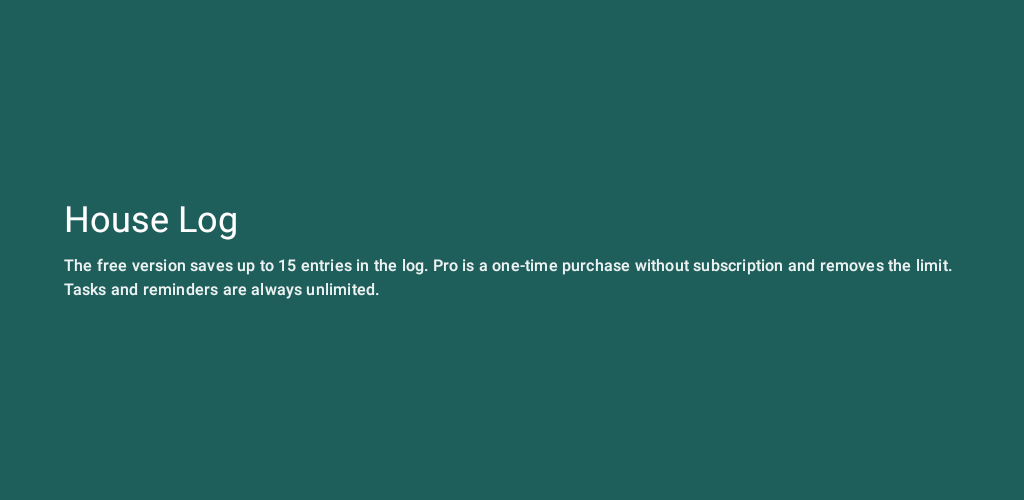
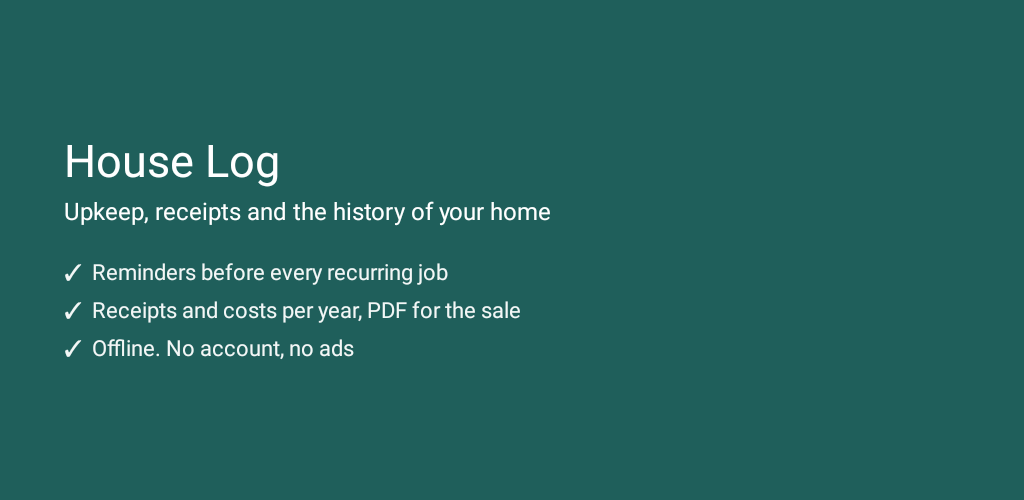
Husloggen: fyra knappar i navigeringsfältet (#442)
* Husloggen: navigeringsfältet har fyra knappar (Att göra, Logg, Översikt, Mer)

Sex knappar bröt etiketterna på två rader på en 360 dp-skärm och två flikar
delade ikon. Planerade kostnader, mätare och dokument nås via Mer; bakåt
från dem går till Mer.

Claude-Session: https://claude.ai/code/session_01CF85d1bdEzex3APXLfSv3H

* Husloggen: funktionsgrafik med rubrik och tre punkter; engelsk butikstitel följer appnamnet House Log

Claude-Session: https://claude.ai/code/session_01CF85d1bdEzex3APXLfSv3H

* Omgenererade butiksskärmbilder för husloggen (workflow Skärmbilder)

* Husloggen: "Varje år" och "Varje månad" i stället för "Var 1:e år"

Claude-Session: https://claude.ai/code/session_01CF85d1bdEzex3APXLfSv3H

---------

Changed region(s): [[0.0625, 0.51, 0.9375, 0.72], [0.0625, 0.27, 0.5312, 0.48]]

diff --git a/husloggen/src/main/kotlin/se/tmconnect/husloggen/ui/HusSkarmar.kt b/husloggen/src/main/kotlin/se/tmconnect/husloggen/ui/HusSkarmar.kt
@@ -1,5 +1,6 @@
 package se.tmconnect.husloggen.ui
 
+import androidx.activity.compose.BackHandler
 import androidx.compose.foundation.clickable
 import androidx.compose.foundation.layout.Arrangement
 import androidx.compose.foundation.selection.selectableGroup
@@ -15,12 +16,7 @@ import androidx.compose.foundation.lazy.LazyColumn
 import androidx.compose.foundation.lazy.items
 import androidx.compose.material.icons.Icons
 import androidx.compose.material.icons.filled.Add
-import androidx.compose.material.icons.filled.DateRange
 import androidx.compose.material.icons.filled.ArrowBack
-import androidx.compose.material.icons.filled.Edit
-import androidx.compose.material.icons.filled.CheckCircle
-import androidx.compose.material.icons.filled.Home
-import androidx.compose.material.icons.filled.Menu
 import androidx.compose.material.icons.filled.Settings
 import androidx.compose.material3.Button
 import androidx.compose.material3.RadioButton
@@ -29,8 +25,6 @@ import androidx.compose.material3.ExtendedFloatingActionButton
 import androidx.compose.material3.Icon
 import androidx.compose.material3.IconButton
 import androidx.compose.material3.MaterialTheme
-import androidx.compose.material3.NavigationBar
-import androidx.compose.material3.NavigationBarItem
 import androidx.compose.material3.Scaffold
 import androidx.compose.material3.Switch
 import androidx.compose.material3.Text
@@ -66,7 +60,7 @@ import se.tmconnect.husloggen.regler.grupperaPerAr
 import se.tmconnect.karna.format.formateraPrisKr
 import se.tmconnect.karna.tema.TemaLage
 
-enum class HusFlik { ATT_GORA, LOGG, PLAN, MATARE, DOKUMENT, SAMMANSTALLNING }
+enum class HusFlik { ATT_GORA, LOGG, PLAN, MATARE, DOKUMENT, SAMMANSTALLNING, MER }
 
 @OptIn(ExperimentalMaterial3Api::class)
 @Composable
@@ -111,6 +105,9 @@ fun HusStartSkarm(
             valdFlik = HusFlik.ATT_GORA.ordinal
         }
     }
+    BackHandler(enabled = HusFlik.entries[valdFlik] in MER_FLIKAR) {
+        valdFlik = HusFlik.MER.ordinal
+    }
     val locale = LocalConfiguration.current.locales[0]
     val visaSkatteInfo = locale.country.equals("SE", ignoreCase = true)
 
@@ -139,59 +136,10 @@ fun HusStartSkarm(
             )
         },
         bottomBar = {
-            NavigationBar {
-                NavigationBarItem(
-                    selected = valdFlik == HusFlik.ATT_GORA.ordinal,
-                    onClick = { valdFlik = HusFlik.ATT_GORA.ordinal },
-                    icon = { Icon(Icons.Filled.Home, contentDescription = null) },
-                    label = { Text(text = stringResource(R.string.flik_att_gora)) },
-                )
-                NavigationBarItem(
-                    selected = valdFlik == HusFlik.LOGG.ordinal,
-                    onClick = { valdFlik = HusFlik.LOGG.ordinal },
-                    icon = { Icon(Icons.Filled.Edit, contentDescription = null) },
-                    label = { Text(text = stringResource(R.string.flik_logg)) },
-                )
-                NavigationBarItem(
-                    selected = valdFlik == HusFlik.PLAN.ordinal,
-                    onClick = { valdFlik = HusFlik.PLAN.ordinal },
-                    icon = {
-                        Icon(
-                            Icons.Filled.DateRange,
-                            contentDescription = stringResource(R.string.flik_plan),
-                        )
-                    },
-                    label = { Text(text = stringResource(R.string.flik_plan)) },
-                )
-                NavigationBarItem(
-                    selected = valdFlik == HusFlik.MATARE.ordinal,
-                    onClick = { valdFlik = HusFlik.MATARE.ordinal },
-                    icon = {
-                        Icon(
-                            Icons.Filled.CheckCircle,
-                            contentDescription = stringResource(R.string.flik_matare),
-                        )
-                    },
-                    label = { Text(text = stringResource(R.string.flik_matare)) },
-                )
-                NavigationBarItem(
-                    selected = valdFlik == HusFlik.DOKUMENT.ordinal,
-                    onClick = { valdFlik = HusFlik.DOKUMENT.ordinal },
-                    icon = {
-                        Icon(
-                            Icons.Filled.Menu,
-                            contentDescription = stringResource(R.string.flik_dokument),
-                        )
-                    },
-                    label = { Text(text = stringResource(R.string.flik_dokument)) },
-                )
-                NavigationBarItem(
-                    selected = valdFlik == HusFlik.SAMMANSTALLNING.ordinal,
-                    onClick = { valdFlik = HusFlik.SAMMANSTALLNING.ordinal },
-                    icon = { Icon(Icons.Filled.Edit, contentDescription = null) },
-                    label = { Text(text = stringResource(R.string.flik_sammanstallning)) },
-                )
-            }
+            HusNavigering(
+                valdFlik = HusFlik.entries[valdFlik],
+                onValjFlik = { valdFlik = it.ordinal },
+            )
         },
         floatingActionButton = {
             when (HusFlik.entries[valdFlik]) {
@@ -260,8 +208,8 @@ fun HusStartSkarm(
                         modifier = Modifier.tryckyta48(),
                     )
                 }
-                HusFlik.SAMMANSTALLNING -> {
-                    // Inget flytande knapp för sammanställningsfliken
+                HusFlik.SAMMANSTALLNING, HusFlik.MER -> {
+                    // Ingen flytande knapp i sammanställningen eller under Mer
                 }
             }
         },
@@ -310,6 +258,13 @@ fun HusStartSkarm(
                     onOppnaDokument = onOppnaDokument,
                 )
             }
+            HusFlik.MER -> MerFlik(
+                antalPlanerade = planeradeKostnader.size,
+                antalMatare = matare.size,
+                antalDokument = dokument.size,
+                contentPadding = innerPadding,
+                onValjFlik = { valdFlik = it.ordinal },
+            )
             HusFlik.SAMMANSTALLNING -> {
                 SammanstallningSkarm(
                     poster = poster,

diff --git a/husloggen/src/main/kotlin/se/tmconnect/husloggen/ui/HusNavigering.kt b/husloggen/src/main/kotlin/se/tmconnect/husloggen/ui/HusNavigering.kt
@@ -1,0 +1,116 @@
+package se.tmconnect.husloggen.ui
+
+import androidx.compose.foundation.layout.PaddingValues
+import androidx.compose.foundation.layout.Row
+import androidx.compose.ui.Alignment
+import androidx.compose.foundation.lazy.LazyColumn
+import androidx.compose.foundation.lazy.items
+import androidx.compose.material.icons.Icons
+import androidx.compose.material.icons.automirrored.filled.KeyboardArrowRight
+import androidx.compose.material.icons.automirrored.filled.List
+import androidx.compose.material.icons.filled.Build
+import androidx.compose.material.icons.filled.DateRange
+import androidx.compose.material.icons.filled.Home
+import androidx.compose.material.icons.filled.Info
+import androidx.compose.material.icons.filled.Menu
+import androidx.compose.material.icons.filled.ShoppingCart
+import androidx.compose.material3.HorizontalDivider
+import androidx.compose.material3.Icon
+import androidx.compose.material3.ListItem
+import androidx.compose.material3.NavigationBar
+import androidx.compose.material3.NavigationBarItem
+import androidx.compose.material3.Text
+import androidx.compose.runtime.Composable
+import androidx.compose.ui.Modifier
+import androidx.compose.ui.graphics.vector.ImageVector
+import androidx.compose.ui.res.stringResource
+import androidx.compose.ui.text.style.TextOverflow
+import androidx.compose.foundation.clickable
+import androidx.compose.ui.semantics.Role
+import se.tmconnect.husloggen.R
+
+/** Flikar som nås via Mer. Bakåt från dem går till Mer. */
+val MER_FLIKAR = setOf(HusFlik.PLAN, HusFlik.MATARE, HusFlik.DOKUMENT)
+
+/** Vilken knapp i navigeringsfältet som är markerad för en flik. */
+fun navigeringsknappFor(flik: HusFlik): HusFlik =
+    if (flik in MER_FLIKAR) HusFlik.MER else flik
+
+private data class Knapp(val flik: HusFlik, val ikon: ImageVector, val etikett: Int)
+
+private val KNAPPAR = listOf(
+    Knapp(HusFlik.ATT_GORA, Icons.Filled.Home, R.string.flik_att_gora),
+    Knapp(HusFlik.LOGG, Icons.AutoMirrored.Filled.List, R.string.flik_logg),
+    Knapp(HusFlik.SAMMANSTALLNING, Icons.Filled.DateRange, R.string.flik_oversikt),
+    Knapp(HusFlik.MER, Icons.Filled.Menu, R.string.flik_mer),
+)
+
+/**
+ * Fyra knappar enligt Material (3–5 mål): Att göra, Logg, Översikt och Mer.
+ * Planerade kostnader, mätare och dokument nås via Mer.
+ */
+@Composable
+fun HusNavigering(
+    valdFlik: HusFlik,
+    onValjFlik: (HusFlik) -> Unit,
+) {
+    val markerad = navigeringsknappFor(valdFlik)
+    NavigationBar {
+        KNAPPAR.forEach { k ->
+            NavigationBarItem(
+                selected = markerad == k.flik,
+                onClick = { onValjFlik(k.flik) },
+                icon = { Icon(k.ikon, contentDescription = null) },
+                label = {
+                    Text(
+                        text = stringResource(k.etikett),
+                        maxLines = 1,
+                        overflow = TextOverflow.Ellipsis,
+                    )
+                },
+            )
+        }
+    }
+}
+
+private data class MerRad(
+    val flik: HusFlik,
+    val ikon: ImageVector,
+    val titel: Int,
+    val text: Int,
+    val antal: Int,
+)
+
+@Composable
+fun MerFlik(
+    antalPlanerade: Int,
+    antalMatare: Int,
+    antalDokument: Int,
+    contentPadding: PaddingValues,
+    onValjFlik: (HusFlik) -> Unit,
+) {
+    val rader = listOf(
+        MerRad(HusFlik.PLAN, Icons.Filled.ShoppingCart, R.string.mer_plan_titel, R.string.mer_plan_text, antalPlanerade),
+        MerRad(HusFlik.MATARE, Icons.Filled.Build, R.string.flik_matare, R.string.mer_matare_text, antalMatare),
+        MerRad(HusFlik.DOKUMENT, Icons.Filled.Info, R.string.flik_dokument, R.string.mer_dokument_text, antalDokument),
+    )
+    LazyColumn(contentPadding = contentPadding) {
+        items(rader, key = { it.flik.name }) { r ->
+            ListItem(
+                headlineContent = { Text(stringResource(r.titel)) },
+                supportingContent = { Text(stringResource(r.text)) },
+                leadingContent = { Icon(r.ikon, contentDescription = null) },
+                trailingContent = {
+                    Row(verticalAlignment = Alignment.CenterVertically) {
+                        if (r.antal > 0) Text(text = r.antal.toString())
+                        Icon(Icons.AutoMirrored.Filled.KeyboardArrowRight, contentDescription = null)
+                    }
+                },
+                modifier = Modifier
+                    .tryckyta48()
+                    .clickable(role = Role.Button) { onValjFlik(r.flik) },
+            )
+            HorizontalDivider()
+        }
+    }
+}

diff --git a/husloggen/src/test/kotlin/se/tmconnect/husloggen/butik/ButikSkarmbilderTest.kt b/husloggen/src/test/kotlin/se/tmconnect/husloggen/butik/ButikSkarmbilderTest.kt
@@ -119,15 +119,27 @@ abstract class ButikSkarmbilderBas {
                     Column(modifier = Modifier.padding(horizontal = 64.dp)) {
                         Text(
                             text = stringResource(R.string.app_name),
-                            style = MaterialTheme.typography.displaySmall,
+                            style = MaterialTheme.typography.displayMedium,
                             color = Color.White,
                         )
                         Text(
-                            text = stringResource(R.string.pro_forklaring),
-                            style = MaterialTheme.typography.titleMedium,
-                            color = Color.White.copy(alpha = 0.92f),
-                            modifier = Modifier.padding(top = 12.dp),
+                            text = stringResource(R.string.butik_rubrik),
+                            style = MaterialTheme.typography.headlineSmall,
+                            color = Color.White,
+                            modifier = Modifier.padding(top = 8.dp, bottom = 24.dp),
                         )
+                        listOf(
+                            R.string.butik_punkt_1,
+                            R.string.butik_punkt_2,
+                            R.string.butik_punkt_3,
+                        ).forEach { punkt ->
+                            Text(
+                                text = "✓  " + stringResource(punkt),
+                                style = MaterialTheme.typography.titleLarge,
+                                color = Color.White.copy(alpha = 0.95f),
+                                modifier = Modifier.padding(vertical = 4.dp),
+                            )
+                        }
                     }
                 }
             }

diff --git a/husloggen/src/test/kotlin/se/tmconnect/husloggen/ui/HusNavigeringTest.kt b/husloggen/src/test/kotlin/se/tmconnect/husloggen/ui/HusNavigeringTest.kt
@@ -1,0 +1,29 @@
+package se.tmconnect.husloggen.ui
+
+import org.junit.Assert.assertEquals
+import org.junit.Assert.assertTrue
+import org.junit.Test
+
+class HusNavigeringTest {
+    @Test
+    fun underflikarMarkerarMer() {
+        assertEquals(HusFlik.MER, navigeringsknappFor(HusFlik.PLAN))
+        assertEquals(HusFlik.MER, navigeringsknappFor(HusFlik.MATARE))
+        assertEquals(HusFlik.MER, navigeringsknappFor(HusFlik.DOKUMENT))
+        assertEquals(HusFlik.MER, navigeringsknappFor(HusFlik.MER))
+    }
+
+    @Test
+    fun huvudflikarMarkerarSigSjalva() {
+        assertEquals(HusFlik.ATT_GORA, navigeringsknappFor(HusFlik.ATT_GORA))
+        assertEquals(HusFlik.LOGG, navigeringsknappFor(HusFlik.LOGG))
+        assertEquals(HusFlik.SAMMANSTALLNING, navigeringsknappFor(HusFlik.SAMMANSTALLNING))
+    }
+
+    @Test
+    fun allaFlikarNasFranHogstFyraKnappar() {
+        val knappar = HusFlik.entries.map { navigeringsknappFor(it) }.toSet()
+        assertEquals(4, knappar.size)
+        assertTrue(HusFlik.entries.all { navigeringsknappFor(it) in knappar })
+    }
+}
